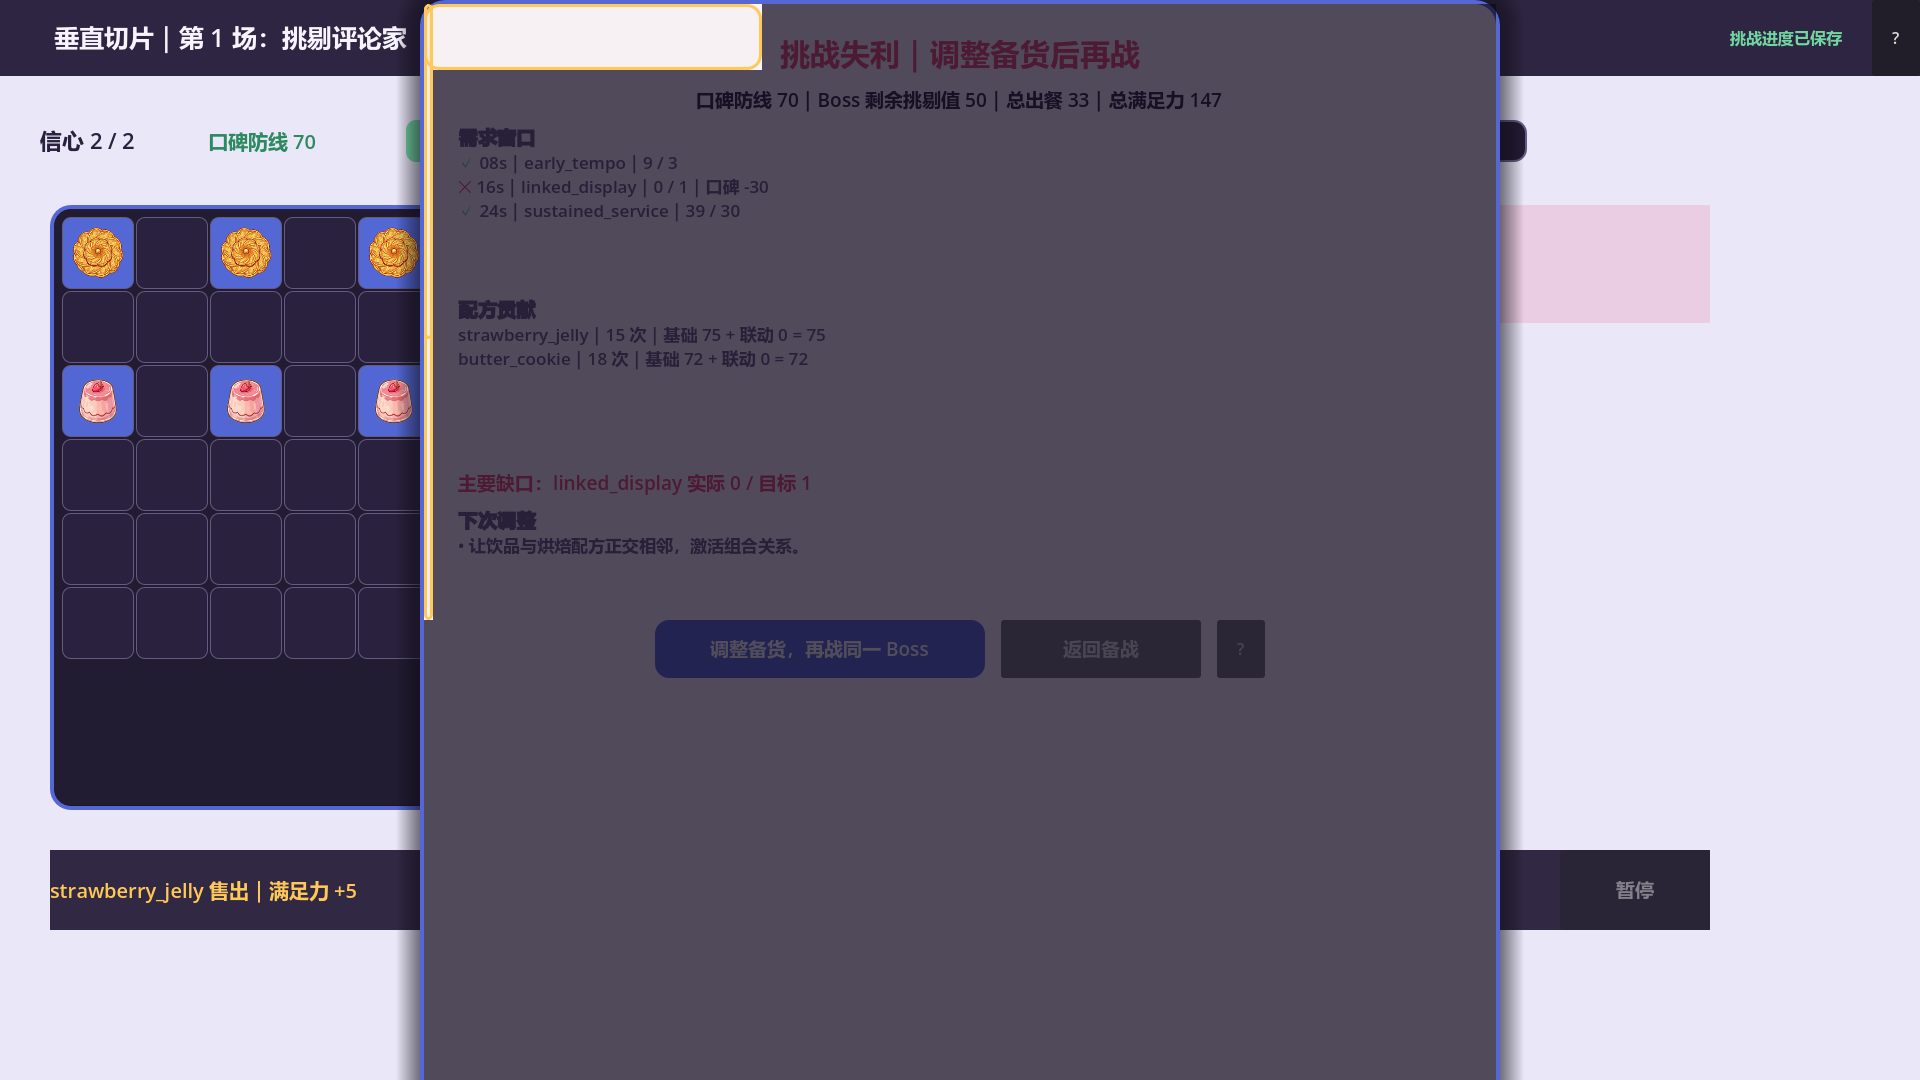
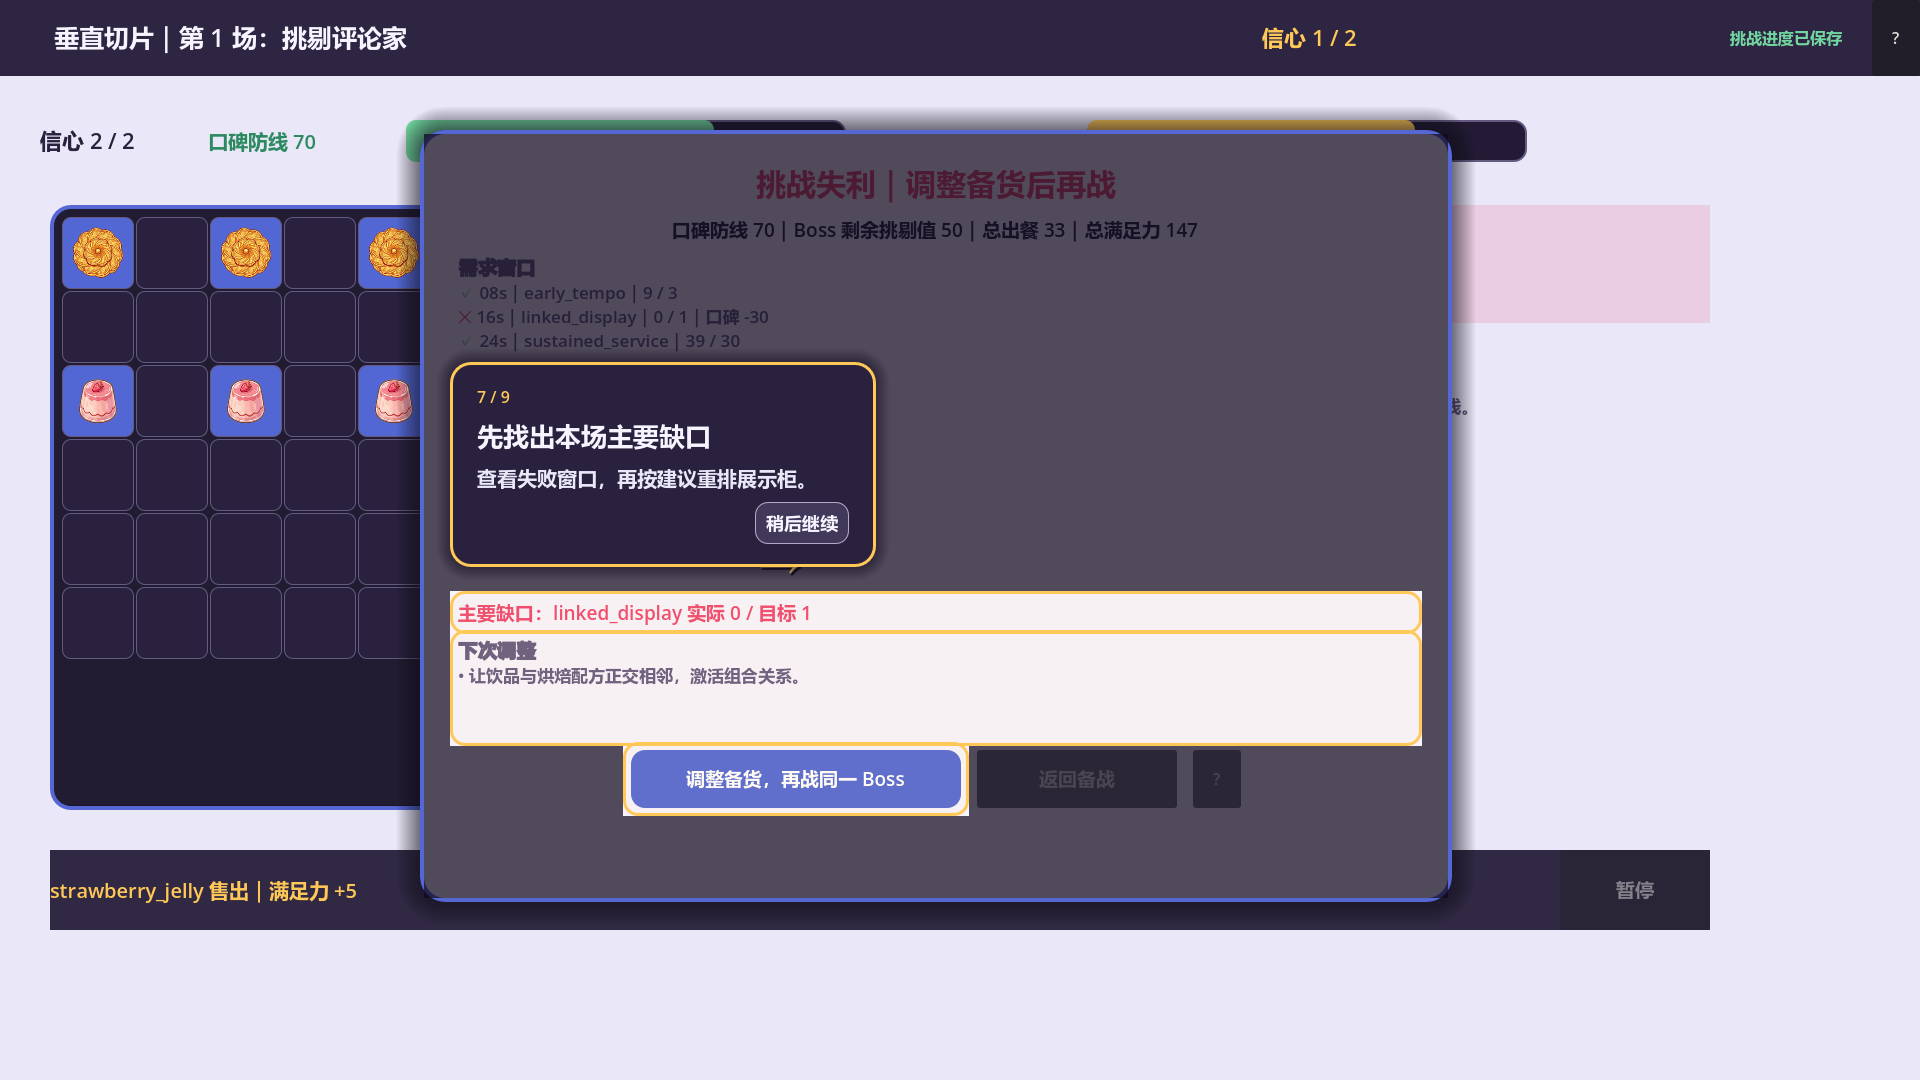
fix: align challenge report tutorial overlay

diff --git a/docs/superpowers/verification/2026-07-27-challenge-onboarding-playtest.md b/docs/superpowers/verification/2026-07-27-challenge-onboarding-playtest.md
@@ -20,6 +20,8 @@ Date: 2026-07-27
 
 The bounded runtime session was verified to use `D:/Project/ProjectRest/project-rest-two/.worktrees/challenge-onboarding/`. All seven durable evidence files below are direct viewport captures from that runtime: valid PNG signature, literal `1920x1080` dimensions, and checked after writing. Their controlled fixture is ignored under `.superpowers`; it uses a unique `user://challenge_tutorial_visual_<mode>.json` save plus the existing `ChallengeRunService`, `start_battle()`, and `advance_battle_for_test(30000)` paths. It changes no production source, default save, reward, inventory, or reset behavior.
 
+Review correction: the original report captures exposed a real PopupPanel failure (the report overlay expanded to `4799` px high and sampled targets before popup layout settled). The settlement window is now constrained to `1080x820`, its report overlay has an explicit scene host, and initial report targeting waits one frame after the popup opens. `05` and `06` below were overwritten only after real-simulation recapture, visual inspection, and PNG validation at `1920x1080`.
+
 | Required state | Status | Evidence / observation |
 |---|---|---|
 | Boss brief spotlight | OBSERVED | [01-boss-brief.png](2026-07-27-challenge-onboarding/01-boss-brief.png) — readable Boss brief, intended spotlight, and top-bar `?`; root overlay only. |
